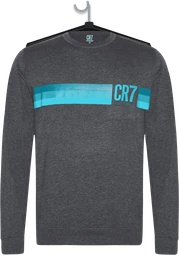
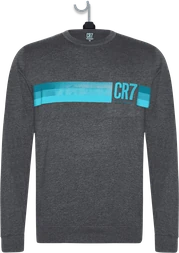
Deliver enquiries via FormSubmit, hidden hangers, calmer rack, uncropped collage
- Contact form: FormSubmit to the enquiry inbox (EmailJS used instead when keys are set);
  email lists all sender details, reply goes to the customer, auto-reply to sender
- Rack: hanger bodies hidden inside garments (hook and neck only), slower, gentler swing
- Our Journey collage: square corners, full image; stacked halves on phones

diff --git a/src/lib/sendEnquiry.js b/src/lib/sendEnquiry.js
@@ -1,45 +1,84 @@
 import emailjs from '@emailjs/browser';
 import { translations } from '../i18n/translations';
-import { contact } from '../data/site';
+import { enquiryInbox } from '../data/site';
 
-// EmailJS keys come from .env.local (locally) or the hosting provider's environment settings.
-// See emailjs/README.md for the setup and the email templates.
+// Delivery:
+// 1. EmailJS, when its keys are set in .env.local / the host's environment (see emailjs/README.md).
+// 2. Otherwise FormSubmit (https://formsubmit.co), which needs no account: the very first submission
+//    sends an activation email to the inbox, and every message after the link is clicked is delivered.
 const SERVICE_ID = import.meta.env.VITE_EMAILJS_SERVICE_ID;
 const TEMPLATE_ID = import.meta.env.VITE_EMAILJS_TEMPLATE_ID;
 const AUTOREPLY_TEMPLATE_ID = import.meta.env.VITE_EMAILJS_AUTOREPLY_TEMPLATE_ID;
 const PUBLIC_KEY = import.meta.env.VITE_EMAILJS_PUBLIC_KEY;
+// After activation FormSubmit offers a random alias for the inbox address; set it here to keep
+// the address out of the page source.
+const FORMSUBMIT_TARGET = import.meta.env.VITE_FORMSUBMIT_ALIAS || enquiryInbox;
 
-export const emailConfigured = Boolean(SERVICE_ID && TEMPLATE_ID && PUBLIC_KEY);
+export const emailJsConfigured = Boolean(SERVICE_ID && TEMPLATE_ID && PUBLIC_KEY);
 
-/**
- * Sends the contact-form enquiry to the Zyntex inbox and, if an auto-reply template is set,
- * a confirmation to the visitor. Rejects if the enquiry itself could not be sent.
- */
-export async function sendEnquiry(values) {
-  if (!emailConfigured) {
-    throw new Error('EmailJS is not configured: set VITE_EMAILJS_SERVICE_ID, VITE_EMAILJS_TEMPLATE_ID and VITE_EMAILJS_PUBLIC_KEY.');
-  }
-
-  const params = {
-    to_email: contact.email,
-    from_name: values.name.trim(),
-    from_email: values.email.trim(),
-    reply_to: values.email.trim(),
+function details(values) {
+  const inquiry = translations.en[`form.${values.subject}`] || values.subject; // always English for the team
+  return {
+    name: values.name.trim(),
     company: values.company.trim(),
+    email: values.email.trim(),
     phone: values.phone.trim() || 'Not provided',
-    // always English for the team, whatever language the visitor used
-    inquiry: translations.en[`form.${values.subject}`] || values.subject,
+    inquiry,
     message: values.message.trim(),
-    submitted_at: new Date().toLocaleString('en-IN', { dateStyle: 'medium', timeStyle: 'short', timeZone: 'Asia/Kolkata' }) + ' IST',
-    page_url: window.location.href,
+    submittedAt: new Date().toLocaleString('en-IN', { dateStyle: 'medium', timeStyle: 'short', timeZone: 'Asia/Kolkata' }) + ' IST',
+    page: window.location.href,
   };
+}
 
+async function viaEmailJs(d) {
+  const params = {
+    to_email: enquiryInbox,
+    from_name: d.name,
+    from_email: d.email,
+    reply_to: d.email,
+    company: d.company,
+    phone: d.phone,
+    inquiry: d.inquiry,
+    message: d.message,
+    submitted_at: d.submittedAt,
+    page_url: d.page,
+  };
   await emailjs.send(SERVICE_ID, TEMPLATE_ID, params, { publicKey: PUBLIC_KEY });
-
   if (AUTOREPLY_TEMPLATE_ID) {
     // the confirmation is a courtesy — a failure here must not report the enquiry as failed
-    emailjs.send(SERVICE_ID, AUTOREPLY_TEMPLATE_ID, params, { publicKey: PUBLIC_KEY }).catch((err) => {
-      console.warn('Auto-reply email failed:', err);
-    });
+    emailjs.send(SERVICE_ID, AUTOREPLY_TEMPLATE_ID, params, { publicKey: PUBLIC_KEY }).catch((err) => console.warn('Auto-reply email failed:', err));
   }
+}
+
+async function viaFormSubmit(d) {
+  const res = await fetch(`https://formsubmit.co/ajax/${FORMSUBMIT_TARGET}`, {
+    method: 'POST',
+    headers: { 'Content-Type': 'application/json', Accept: 'application/json' },
+    body: JSON.stringify({
+      // shown as a table in the email, in this order
+      Name: d.name,
+      Company: d.company,
+      email: d.email,
+      Phone: d.phone,
+      'Inquiry Type': d.inquiry,
+      Message: d.message,
+      'Submitted At': d.submittedAt,
+      'Sent From': d.page,
+      _subject: `New enquiry: ${d.inquiry} — ${d.name} (${d.company})`,
+      _replyto: d.email,
+      _template: 'table',
+      _captcha: 'false',
+      _autoresponse: `Dear ${d.name}, thank you for contacting Zyntex. We have received your ${d.inquiry} enquiry and our team will get back to you shortly. — Team Zyntex`,
+    }),
+  });
+  const data = await res.json().catch(() => ({}));
+  if (!res.ok || data.success === false || data.success === 'false') {
+    throw new Error(data.message || `FormSubmit error ${res.status}`);
+  }
+}
+
+/** Sends the contact-form enquiry to the Zyntex inbox. Rejects if it could not be sent. */
+export async function sendEnquiry(values) {
+  const d = details(values);
+  return emailJsConfigured ? viaEmailJs(d) : viaFormSubmit(d);
 }

diff --git a/src/components/ClothingRack.jsx b/src/components/ClothingRack.jsx
@@ -7,11 +7,11 @@ import { routes } from '../data/site';
 import { rackGarments } from '../data/rack';
 
 // Physics tuning (seconds, radians, pixels)
-const GRAVITY = 38; // pendulum stiffness → ~1 Hz swing
-const SWING_DAMP = 1.9;
+const GRAVITY = 24; // pendulum stiffness → a slow, weighty ~1.3 s swing
+const SWING_DAMP = 1.5;
 const SLIDE_K = 26; // spring pulling each hanger back to its slot
 const SLIDE_DAMP = 7.5;
-const MAX_ANGLE = 0.65;
+const MAX_ANGLE = 0.42;
 const PAN_FRICTION = 3.2; // momentum decay of the sliding rack (per second)
 
 function useLayout(stageRef) {
@@ -176,9 +176,9 @@ export default function ClothingRack() {
           g.om += (-acc / 900) * dt; // inertia: sliding makes the garment swing back
         }
         // the rack moving under the hanger makes the garment lag behind and swing
-        if (panAcc) g.om += Math.max(-36, Math.min(36, panAcc / 200)) * dt * 9 * g.k;
+        if (panAcc) g.om += Math.max(-24, Math.min(24, panAcc / 260)) * dt * 7 * g.k;
         // pendulum + a soft idle breeze
-        const breeze = reduce ? 0 : 0.35 * Math.sin(tSec * 0.7 + g.phase);
+        const breeze = reduce ? 0 : 0.25 * Math.sin(tSec * 0.6 + g.phase);
         g.om += (-g.grav * Math.sin(g.th) - SWING_DAMP * g.om + breeze) * dt;
         g.th = Math.max(-MAX_ANGLE, Math.min(MAX_ANGLE, g.th + g.om * dt));
       });
@@ -276,11 +276,12 @@ export default function ClothingRack() {
       const i = hitTest(x, y);
       if (i >= 0) {
         const g = sim.current[i];
-        g.om += vx * 1.15;
-        g.v += vx * 260;
+        // a brush of the hand: a gentle push, not a flick
+        g.om += vx * 0.45;
+        g.v += vx * 110;
         // a lighter nudge for the neighbours you brush past
         [i - 1, i + 1].forEach((j) => {
-          if (sim.current[j] && Math.abs(x - (restX(j) + sim.current[j].off)) < layout.w * 0.6) sim.current[j].om += vx * 0.35;
+          if (sim.current[j] && Math.abs(x - (restX(j) + sim.current[j].off)) < layout.w * 0.6) sim.current[j].om += vx * 0.15;
         });
         highlight(i);
       }
@@ -311,7 +312,7 @@ export default function ClothingRack() {
     }
     if (i >= 0) {
       highlight(i);
-      sim.current[i].om += (x < restX(i) + sim.current[i].off ? 1 : -1) * 1.4;
+      sim.current[i].om += (x < restX(i) + sim.current[i].off ? 1 : -1) * 0.8;
     }
   };
 
@@ -322,7 +323,7 @@ export default function ClothingRack() {
       // a tap (no real movement) pushes the garment under the finger
       if (!d.moved && d.hit >= 0 && sim.current[d.hit]) {
         highlight(d.hit);
-        sim.current[d.hit].om += (pointer.current.x < restX(d.hit) + sim.current[d.hit].off ? 1 : -1) * 1.6;
+        sim.current[d.hit].om += (pointer.current.x < restX(d.hit) + sim.current[d.hit].off ? 1 : -1) * 0.9;
       }
       pan.current.drag = null;
     }
@@ -335,7 +336,7 @@ export default function ClothingRack() {
       const target = Math.max(0, Math.min(layout.maxPan, restX(i) - layout.width / 2));
       pan.current.v = (target - pan.current.x) * PAN_FRICTION;
     }
-    sim.current[i].om += 1.8;
+    sim.current[i].om += 1.0;
     highlight(i);
   };
 

diff --git a/src/pages/OurJourney.jsx b/src/pages/OurJourney.jsx
@@ -1,9 +1,9 @@
 import { useRef } from 'react';
 import { motion, useScroll, useSpring } from 'framer-motion';
 import Seo from '../components/Seo';
+import JourneyCollage from '../components/JourneyCollage';
 import PageBanner from '../components/PageBanner';
-import { Img, Page, Reveal, SplitHeading } from '../components/Motion';
-import { images } from '../assets/images';
+import { Page, Reveal, SplitHeading } from '../components/Motion';
 import { useLanguage } from '../i18n/LanguageContext';
 import { routes, workforce } from '../data/site';
 
@@ -93,9 +93,7 @@ export default function OurJourney() {
 
       <section className="section--tight journey-page__collage" aria-label="Zyntex apparel collection">
         <div className="container">
-          <Reveal className="journey__collage">
-            <Img image={images.main1} sizes="(max-width: 1440px) 100vw, 1440px" />
-          </Reveal>
+          <JourneyCollage />
         </div>
       </section>
     </Page>

diff --git a/src/components/JourneyCollage.jsx b/src/components/JourneyCollage.jsx
@@ -1,0 +1,20 @@
+import { Img, Reveal } from './Motion';
+import { images } from '../assets/images';
+import halfA from '../assets/images/main-image-1-a.webp';
+import halfB from '../assets/images/main-image-1-b.webp';
+
+/**
+ * MAIN IMAGE - 1, never cropped. Wide screens show the whole collage in one row; phones show its
+ * two halves stacked (split at the collage's own white gutter) so every photo stays readable.
+ */
+export default function JourneyCollage({ className = '' }) {
+  return (
+    <Reveal className={`journey__collage ${className}`}>
+      <Img image={images.main1} className="journey__collage-wide" sizes="(max-width: 1440px) 100vw, 1440px" />
+      <div className="journey__collage-stack">
+        <img src={halfA} alt="" loading="lazy" decoding="async" width="1200" height="750" />
+        <img src={halfB} alt="" loading="lazy" decoding="async" width="1200" height="754" />
+      </div>
+    </Reveal>
+  );
+}

diff --git a/src/pages/ApparelHome.jsx b/src/pages/ApparelHome.jsx
@@ -2,6 +2,7 @@ import { useRef } from 'react';
 import { Link } from 'react-router-dom';
 import { motion, useMotionValue, useReducedMotion, useScroll, useSpring, useTransform } from 'framer-motion';
 import Seo from '../components/Seo';
+import JourneyCollage from '../components/JourneyCollage';
 import ClothingRack from '../components/ClothingRack';
 import { CountUp, Img, Page, ParallaxImage, Reveal, SplitHeading, TiltCard } from '../components/Motion';
 import { ArrowRight, DesignIcon, ManufacturingIcon, OpexIcon, ProductsIcon } from '../components/Icons';
@@ -195,9 +196,7 @@ export default function ApparelHome() {
           </div>
         </div>
         <div className="container">
-          <Reveal className="journey__collage">
-            <Img image={images.main1} sizes="(max-width: 1440px) 100vw, 1440px" />
-          </Reveal>
+          <JourneyCollage />
         </div>
       </section>
 

diff --git a/src/pages/PrivacyPolicy.jsx b/src/pages/PrivacyPolicy.jsx
@@ -25,8 +25,9 @@ export default function PrivacyPolicy() {
 
           <h2>How your message is delivered</h2>
           <p>
-            Contact-form submissions are delivered to our inbox at {contact.email} through EmailJS, an email-delivery service, which may also
-            send you an automatic confirmation that we received your message. EmailJS processes the message only to deliver these emails.
+            Contact-form submissions are delivered to the Zyntex team by email through an email-delivery service (EmailJS or FormSubmit),
+            which may also send you an automatic confirmation that we received your message. The service processes the message only to
+            deliver these emails.
           </p>
 
           <h2>Cookies and local storage</h2>

diff --git a/src/styles/sections.css b/src/styles/sections.css
@@ -416,14 +416,27 @@
 /* The full collage, never cropped: natural aspect ratio at every width */
 .journey__collage {
   margin-top: clamp(40px, 6vw, 72px);
-  overflow: hidden;
-  border-radius: clamp(10px, 1.6vw, 20px);
 }
+/* full image at its own proportions — square corners, nothing clipped */
 .journey__collage img {
+  display: block;
   width: 100%;
   height: auto;
+}
+.journey__collage-wide {
   aspect-ratio: 4320 / 1350;
-  object-fit: contain;
+}
+.journey__collage-stack {
+  display: none;
+}
+@media (max-width: 700px) {
+  .journey__collage .journey__collage-wide {
+    display: none;
+  }
+  .journey__collage-stack {
+    display: grid;
+    gap: 6px;
+  }
 }
 
 /* ---------- Zyntex in numbers ---------- */

diff --git a/src/data/site.js b/src/data/site.js
@@ -13,6 +13,9 @@ export const contact = {
   phoneOffice: '+91 78630 24047',
 };
 
+// Where contact-form enquiries are delivered (not shown on the site).
+export const enquiryInbox = import.meta.env.VITE_ENQUIRY_INBOX || 'shitr5000@gmail.com';
+
 export const mapLinks = {
   open: `https://www.google.com/maps/search/?api=1&query=${contact.lat},${contact.lng}`,
   embed: (() => {

diff --git a/scripts/prepare-rack.py b/scripts/prepare-rack.py
@@ -19,6 +19,10 @@ SRC = os.path.join('resources', 'racks')
 OUT = os.path.join(SRC, 'black')
 SHOULDER = 150  # target shoulder width in px (output)
 SS = 4  # supersampling for the drawn hanger
+# Garments where the hanger shows through (e.g. a strappy top hangs by its straps).
+# For every other garment the hanger body sits hidden inside — only the hook and the
+# hanger's neck show above the collar, as on a real rail.
+SHOW_FULL_HANGER = {'rack1.png'}
 
 
 def hsv(p):
@@ -124,7 +128,7 @@ def top_edge(alpha, x):
     return alpha.size[1]
 
 
-def add_hanger(garment):
+def add_hanger(garment, full=True):
     """Draws a black hanger behind a cut-out garment and returns the composite."""
     alpha = garment.getchannel('A')
     w, h = garment.size
@@ -139,6 +143,9 @@ def add_hanger(garment):
     ry = top_edge(alpha, min(w - 1, rx)) - span * 0.012
     neck_top = min(top_edge(alpha, int(cx + d)) for d in range(-int(span * 0.08), int(span * 0.08) + 1, 2))
     ny = min(neck_top, (ly + ry) / 2 - span * 0.1) - span * 0.035
+    if not full:
+        # hidden hanger: its neck rises just out of the collar at the centre back
+        ny = top_edge(alpha, int(cx)) - span * 0.03
     hook = span * 0.2  # hook height above the hanger's neck
 
     pad_top = int(max(0, -(ny - hook - span * 0.04)))
@@ -159,15 +166,19 @@ def add_hanger(garment):
         (S(lx + thick * 0.2), S(ly + oy + thick)),
         (S(lx - thick * 0.4), S(ly + oy)),
     ]
-    d.polygon(body, fill=(22, 22, 24, 255))
-    # rounded shoulder ends
-    for x, y in ((lx, ly), (rx, ry)):
-        r = thick * 0.55
-        d.ellipse([S(x - r), S(y + oy), S(x + r), S(y + oy + 2 * r)], fill=(22, 22, 24, 255))
-    # a soft highlight along the top edge of each arm
-    hl = (78, 80, 86, 255)
-    d.line([(S(cx), S(ny + oy + thick * 0.25)), (S(rx), S(ry + oy + thick * 0.2))], fill=hl, width=int(S(thick * 0.18)))
-    d.line([(S(cx), S(ny + oy + thick * 0.25)), (S(lx), S(ly + oy + thick * 0.2))], fill=hl, width=int(S(thick * 0.18)))
+    if full:
+        d.polygon(body, fill=(22, 22, 24, 255))
+        # rounded shoulder ends
+        for x, y in ((lx, ly), (rx, ry)):
+            r = thick * 0.55
+            d.ellipse([S(x - r), S(y + oy), S(x + r), S(y + oy + 2 * r)], fill=(22, 22, 24, 255))
+        # a soft highlight along the top edge of each arm
+        hl = (78, 80, 86, 255)
+        d.line([(S(cx), S(ny + oy + thick * 0.25)), (S(rx), S(ry + oy + thick * 0.2))], fill=hl, width=int(S(thick * 0.18)))
+        d.line([(S(cx), S(ny + oy + thick * 0.25)), (S(lx), S(ly + oy + thick * 0.2))], fill=hl, width=int(S(thick * 0.18)))
+    else:
+        # the top of the hanger's neck, disappearing into the collar
+        d.rounded_rectangle([S(cx - thick * 1.1), S(ny + oy - thick * 0.2), S(cx + thick * 1.1), S(ny + oy + thick * 2.2)], radius=S(thick * 0.5), fill=(22, 22, 24, 255))
 
     # metal hook: a stem then a curl to the left
     stem_top = ny - hook * 0.45
@@ -208,7 +219,7 @@ def process(name):
     if abs(scale - 1) > 0.02:
         im = im.resize((round(im.width * scale), round(im.height * scale)), Image.LANCZOS)
     if not wood:
-        im = add_hanger(im)
+        im = add_hanger(im, full=name in SHOW_FULL_HANGER)
     im.save(os.path.join(OUT, name))
     return mode, im.size
 
